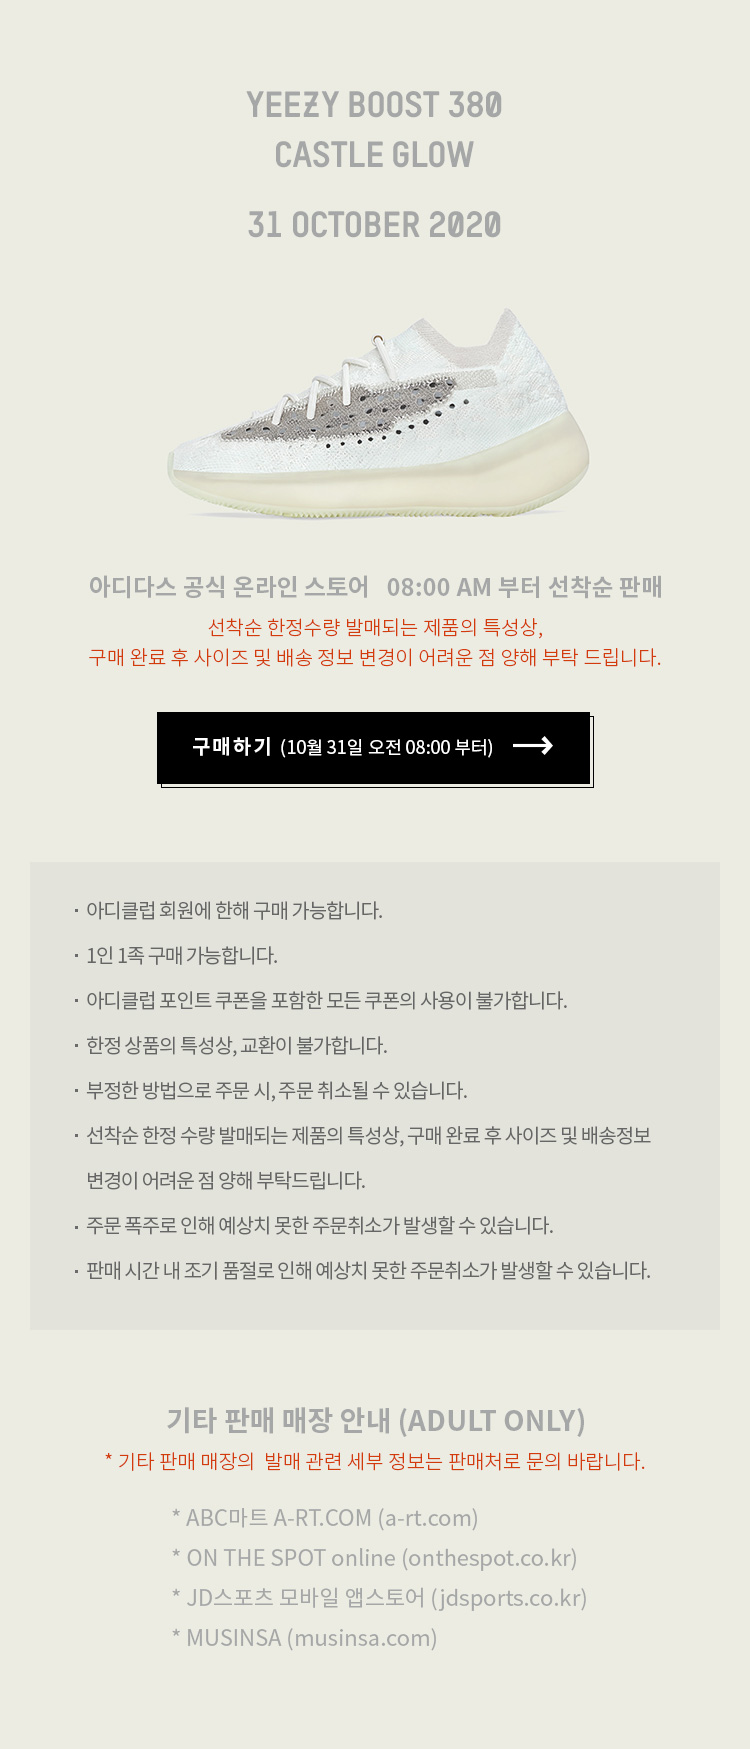
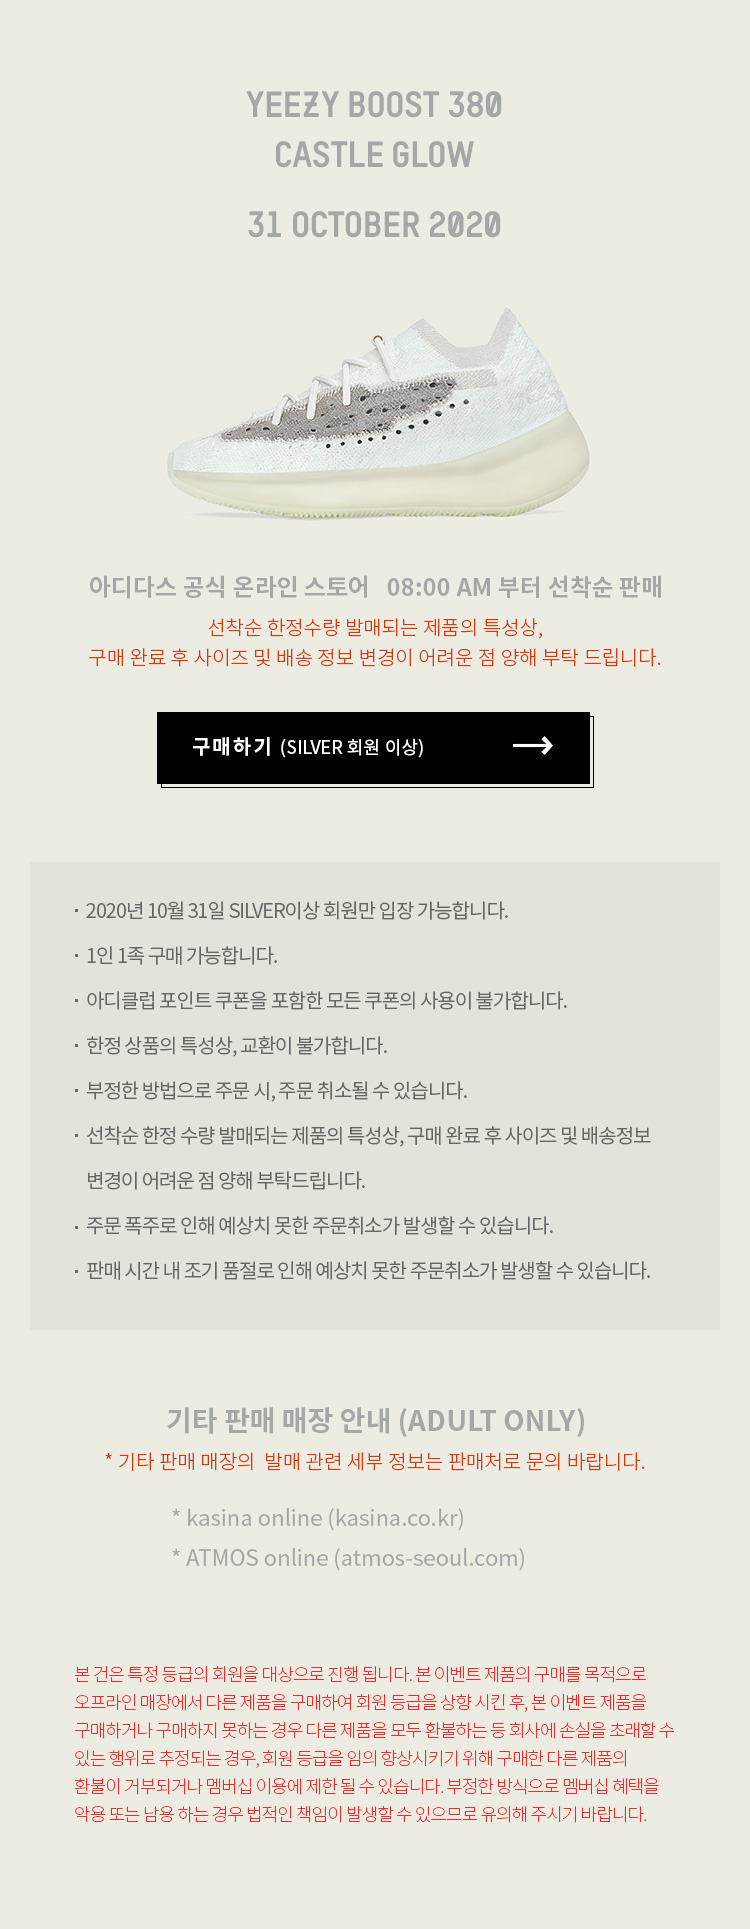
-

diff --git a/mobile/html/adidas/pn/YEEZY_INFORMATION.html b/mobile/html/adidas/pn/YEEZY_INFORMATION.html
@@ -7,7 +7,7 @@
                     <div class="visual">
                     <img src="/images/adidas/2020/event/yeezy_information/1027/yeezy_MO.jpg" alt="">
                     <a href="https://m.adidas.co.kr/MO/Product/planShopPrdList.action?mainId=0&subId=7214"
-                    style="position: absolute;top: 40.5%;left: 0%;width: 100%;height: 5%;z-index: 1;text-indent: -3000px;"
+                    style="position: absolute;top: 36.5%;left: 0%;width: 100%;height: 5%;z-index: 1;text-indent: -3000px;"
                     campaign-label="구매하기">구매하기</a>
                 </div>
     

diff --git a/mobile/html/adidas/2020/event/yeezy_information/build/index.html b/mobile/html/adidas/2020/event/yeezy_information/build/index.html
@@ -40,7 +40,7 @@
                 <div class="visual">
                     <img src="/images/adidas/2020/event/yeezy_information/1027/yeezy_MO.jpg" alt="">
                     <a href="https://m.adidas.co.kr/MO/Product/planShopPrdList.action?mainId=0&subId=7214"
-                    style="position: absolute;top: 40.5%;left: 0%;width: 100%;height: 5%;z-index: 1;text-indent: -3000px;"
+                    style="position: absolute;top: 36.5%;left: 0%;width: 100%;height: 5%;z-index: 1;text-indent: -3000px;"
                     campaign-label="구매하기">구매하기</a>
                 </div>
 

diff --git a/mobile/html/adidas/2020/event/yeezy_information/index.html b/mobile/html/adidas/2020/event/yeezy_information/index.html
@@ -38,7 +38,7 @@
                 <div class="visual">
                     <img src="/images/adidas/2020/event/yeezy_information/1027/yeezy_MO.jpg" alt="">
                     <a href="https://m.adidas.co.kr/MO/Product/planShopPrdList.action?mainId=0&subId=7214"
-                    style="position: absolute;top: 40.5%;left: 0%;width: 100%;height: 5%;z-index: 1;text-indent: -3000px;"
+                    style="position: absolute;top: 36.5%;left: 0%;width: 100%;height: 5%;z-index: 1;text-indent: -3000px;"
                     campaign-label="구매하기">구매하기</a>
                 </div>
 
